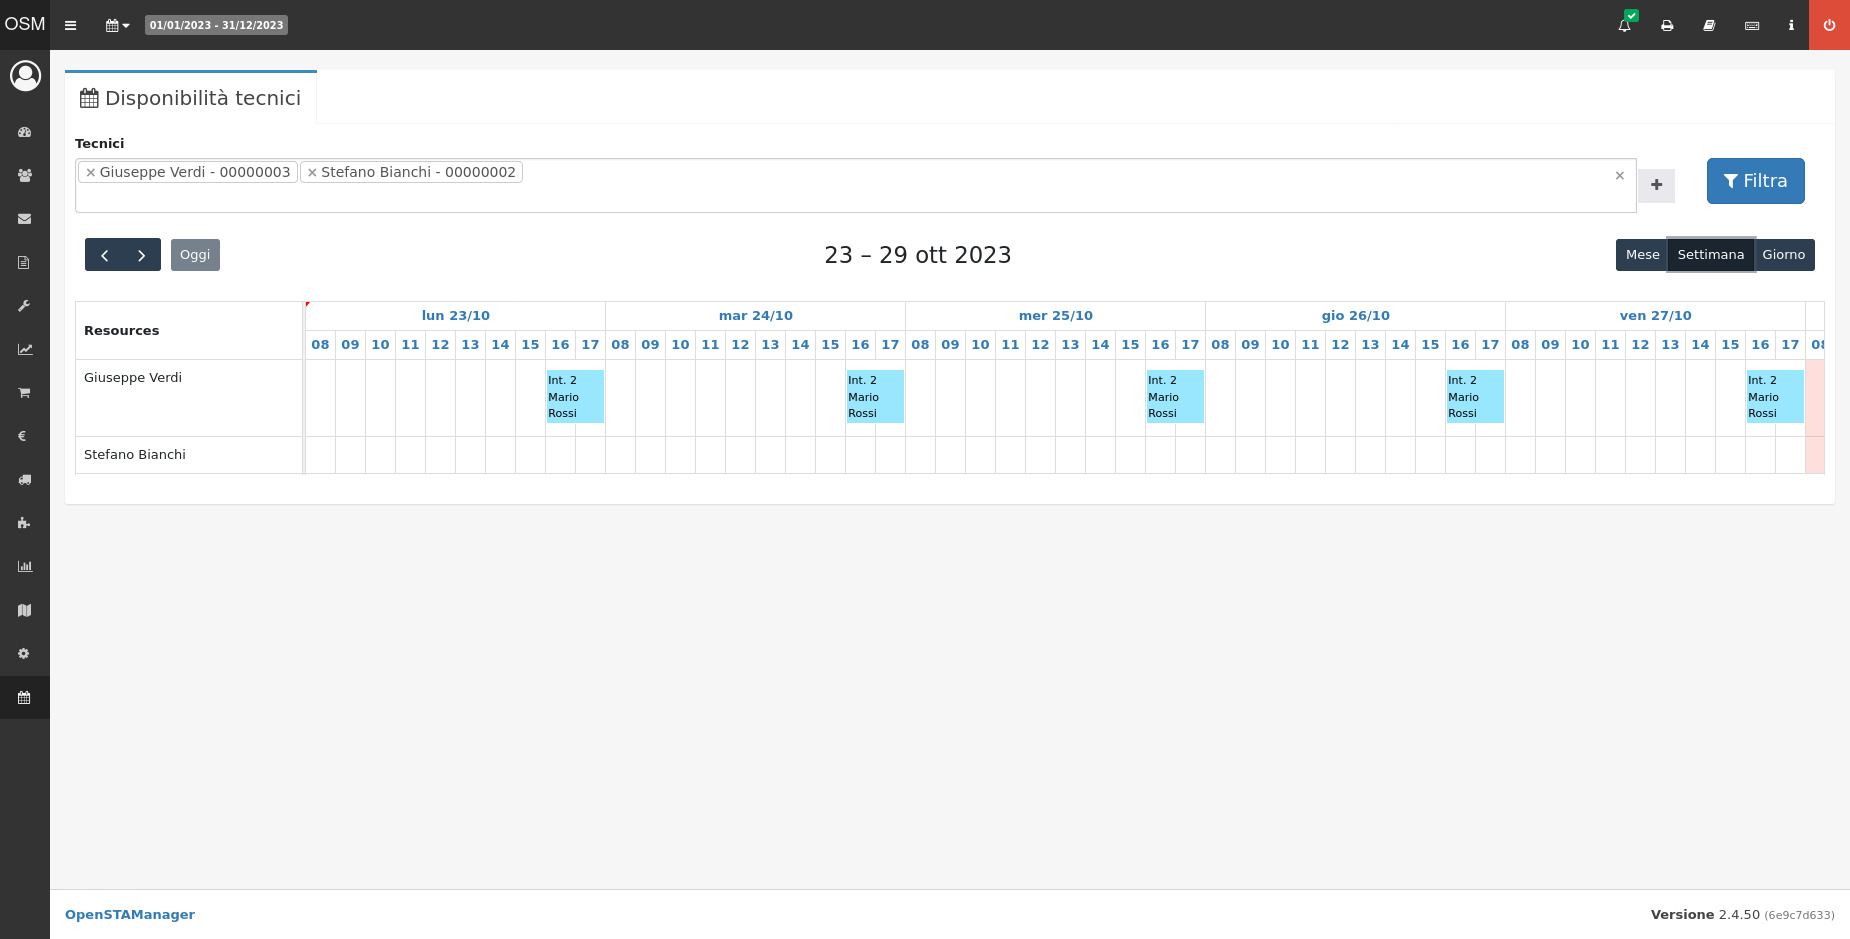
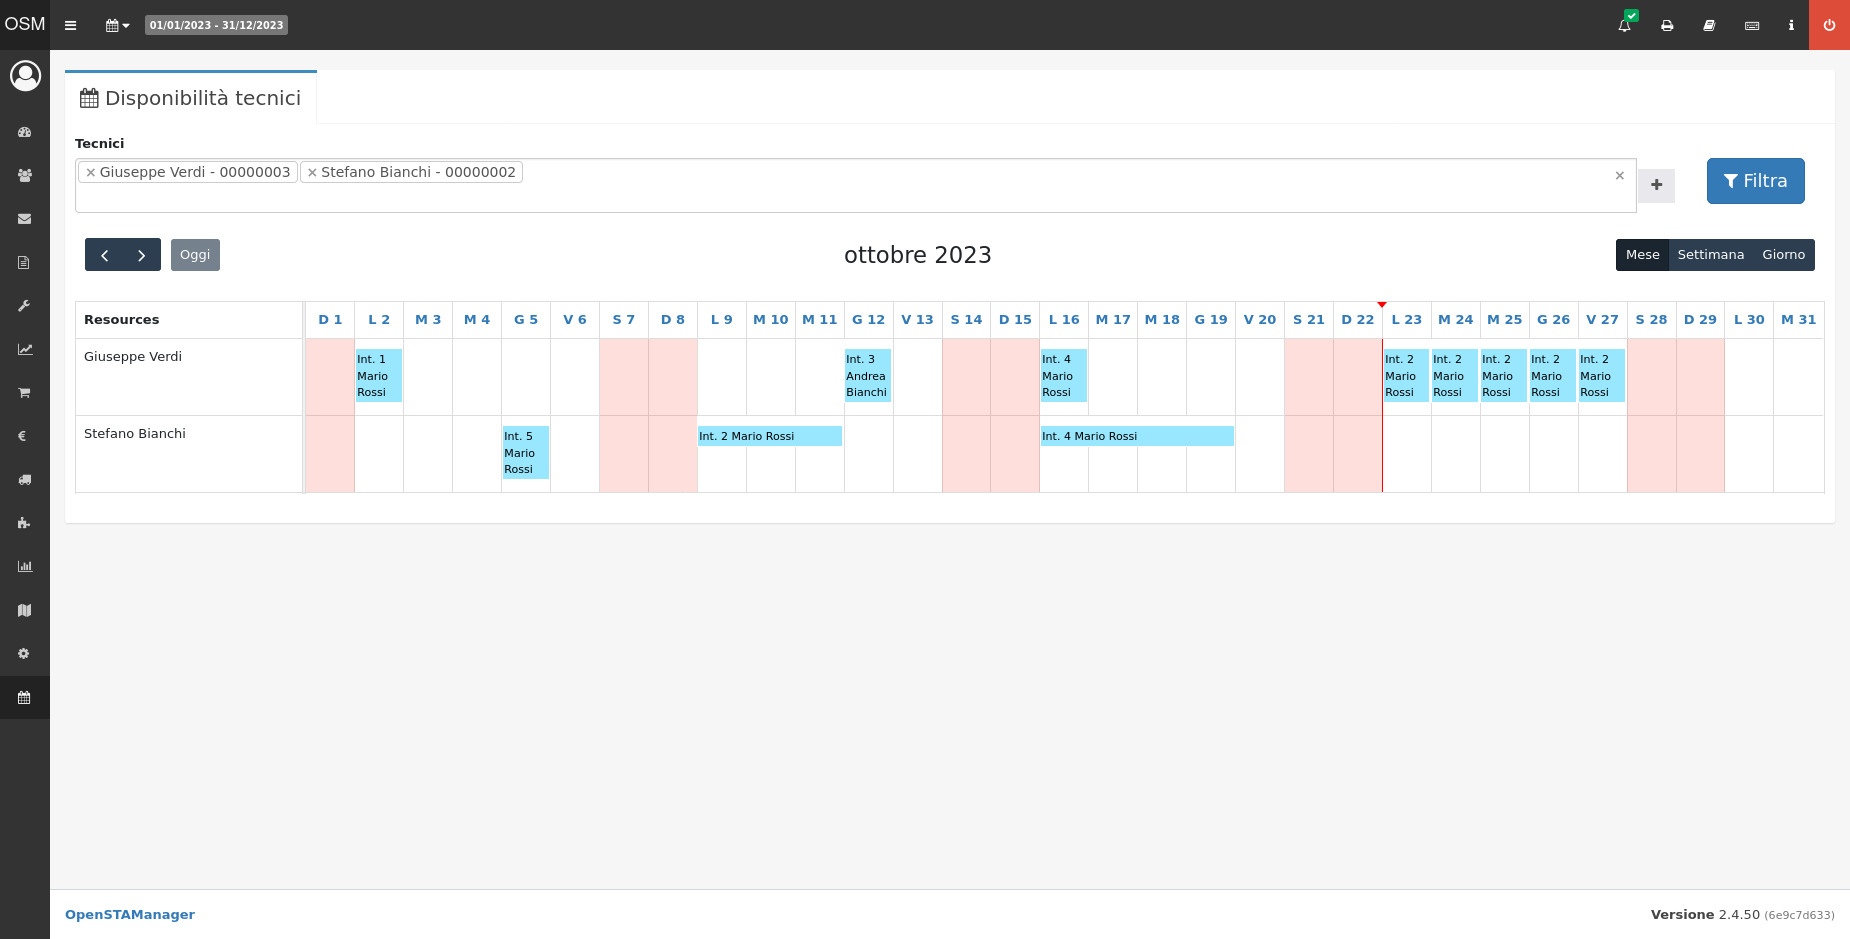
GITBOOK-5: change request with no subject merged in GitBook

diff --git a/guide/esempi/stampa-inventario.md b/guide/esempi/stampa-inventario.md
@@ -1,0 +1,16 @@
+---
+description: Come stampare l'inventario di magazzino con OpenSTAManager
+---
+
+# 📃 Stampa inventario
+
+Per stampare l'inventario di magazzino a una determinata data con OpenSTAManager è sufficiente impostare il filtro della data al periodo che si vuole prendere in esame:
+
+<figure><img src="../../.gitbook/assets/immagine.png" alt=""><figcaption></figcaption></figure>
+
+Si dovrà poi cliccare sul widget **Stampa inventario** per poter selezionare se stampare solo gli articoli esistenti o anche quelli con giacenza pari a 0, e che prezzo di acquisto visualizzare scegliendo tra: scheda articolo, primo acquisto, ultimo acquisto o media ponderata.
+
+Cliccando su stampa è possibile procedere alla visualizzazione del file da stampare.
+
+<figure><img src="../../.gitbook/assets/immagine (686).png" alt=""><figcaption></figcaption></figure>
+

diff --git a/moduli-premium/modulo-disponibilita-tecnici.md b/moduli-premium/modulo-disponibilita-tecnici.md
@@ -22,11 +22,11 @@ Le attività segnate a calendario infatti, vengono suddivise per operatore, perm
 
 A seguito dell'installazione del modulo, cliccando su **Disponibilità tecnici** apparirà la seguente schermata:
 
-<figure><img src="../.gitbook/assets/immagine.png" alt=""><figcaption></figcaption></figure>
+<figure><img src="../.gitbook/assets/immagine (1).png" alt=""><figcaption></figcaption></figure>
 
 #### Visualizzazione Settimana
 
-<figure><img src="../.gitbook/assets/immagine (1).png" alt=""><figcaption></figcaption></figure>
+<figure><img src="../.gitbook/assets/immagine (1) (1).png" alt=""><figcaption></figcaption></figure>
 
 #### Visualizzazione Giorno
 

diff --git a/SUMMARY.md b/SUMMARY.md
@@ -211,6 +211,7 @@
   * [👨🏫 Prezzo di vendita automatico](guide/esempi/prezzo-di-vendita-automatico.md)
   * [🏢 Quantità di magazzino](guide/esempi/magazzino.md)
   * [💸 Registrazione di crediti inesigibili](guide/esempi/registrazione-di-crediti-inesigibili.md)
+  * [📃 Stampa inventario](guide/esempi/stampa-inventario.md)
   * [🗓 Tasks programmati](guide/esempi/tasks-programmati.md)
   * [🔨 Verificare l'installazione di OSM](guide/esempi/verificare-linstallazione-di-osm.md)
 * [🪂 Strumenti esterni](guide/strumenti-esterni/README.md)
